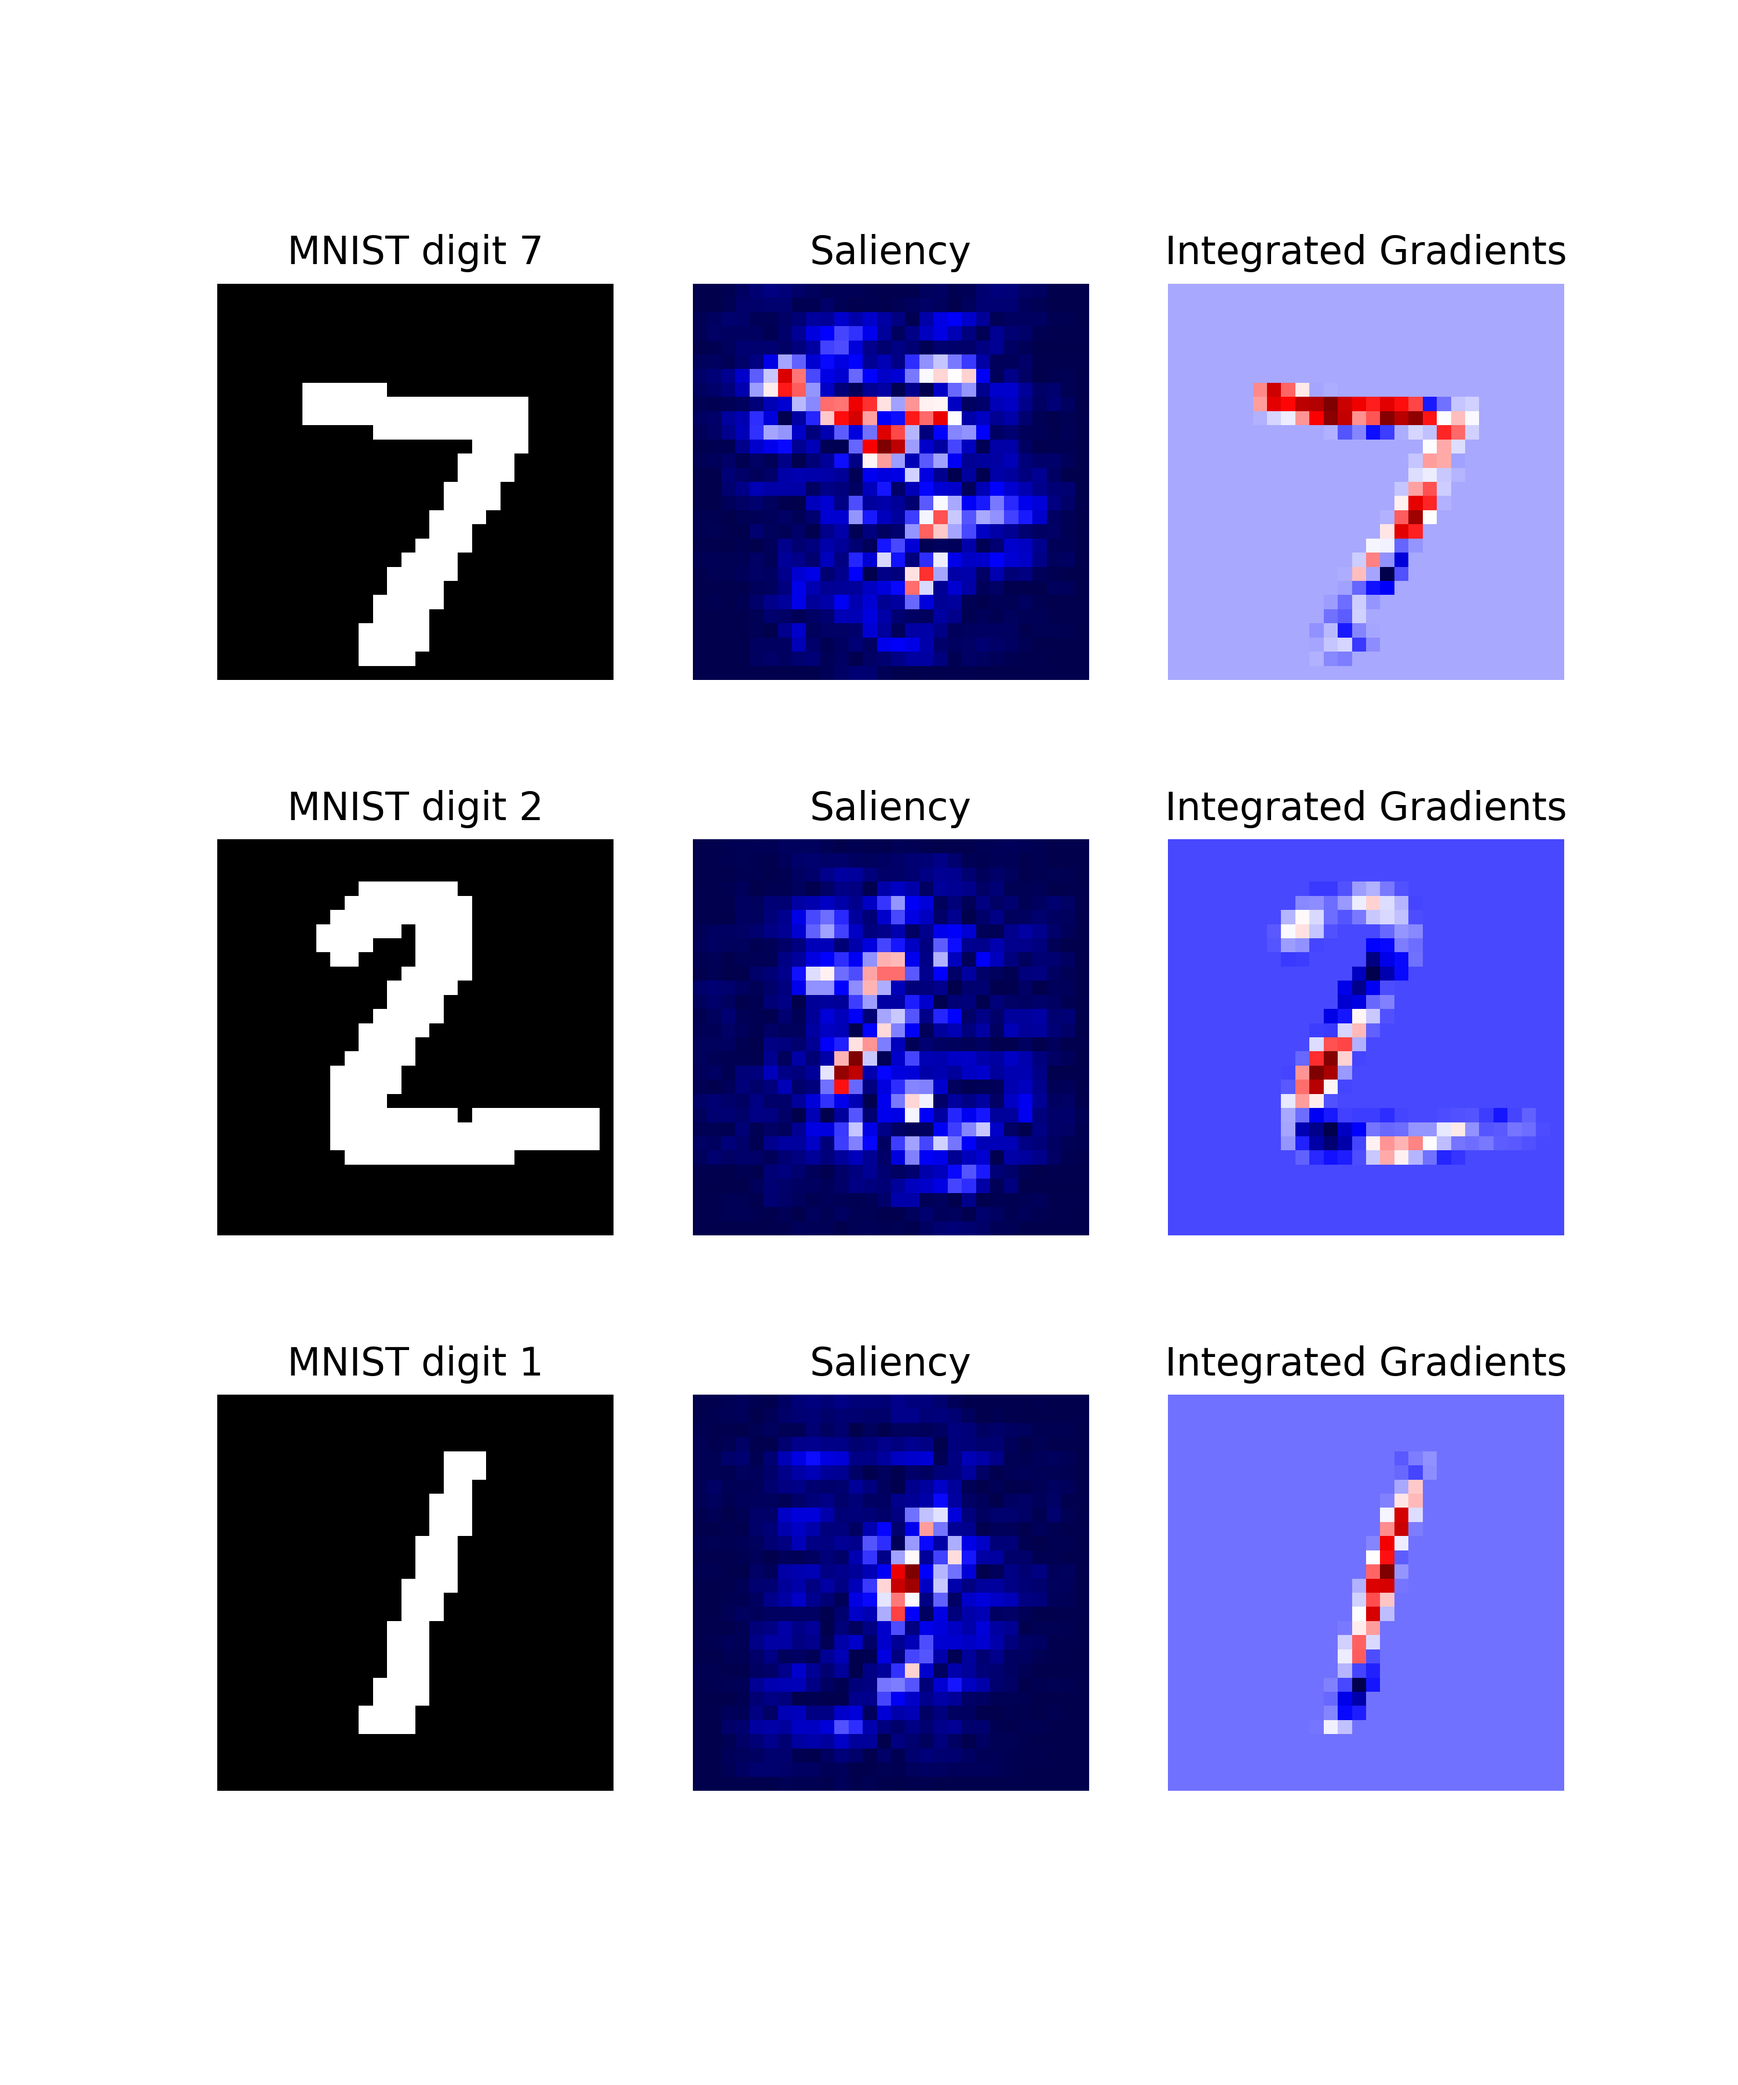
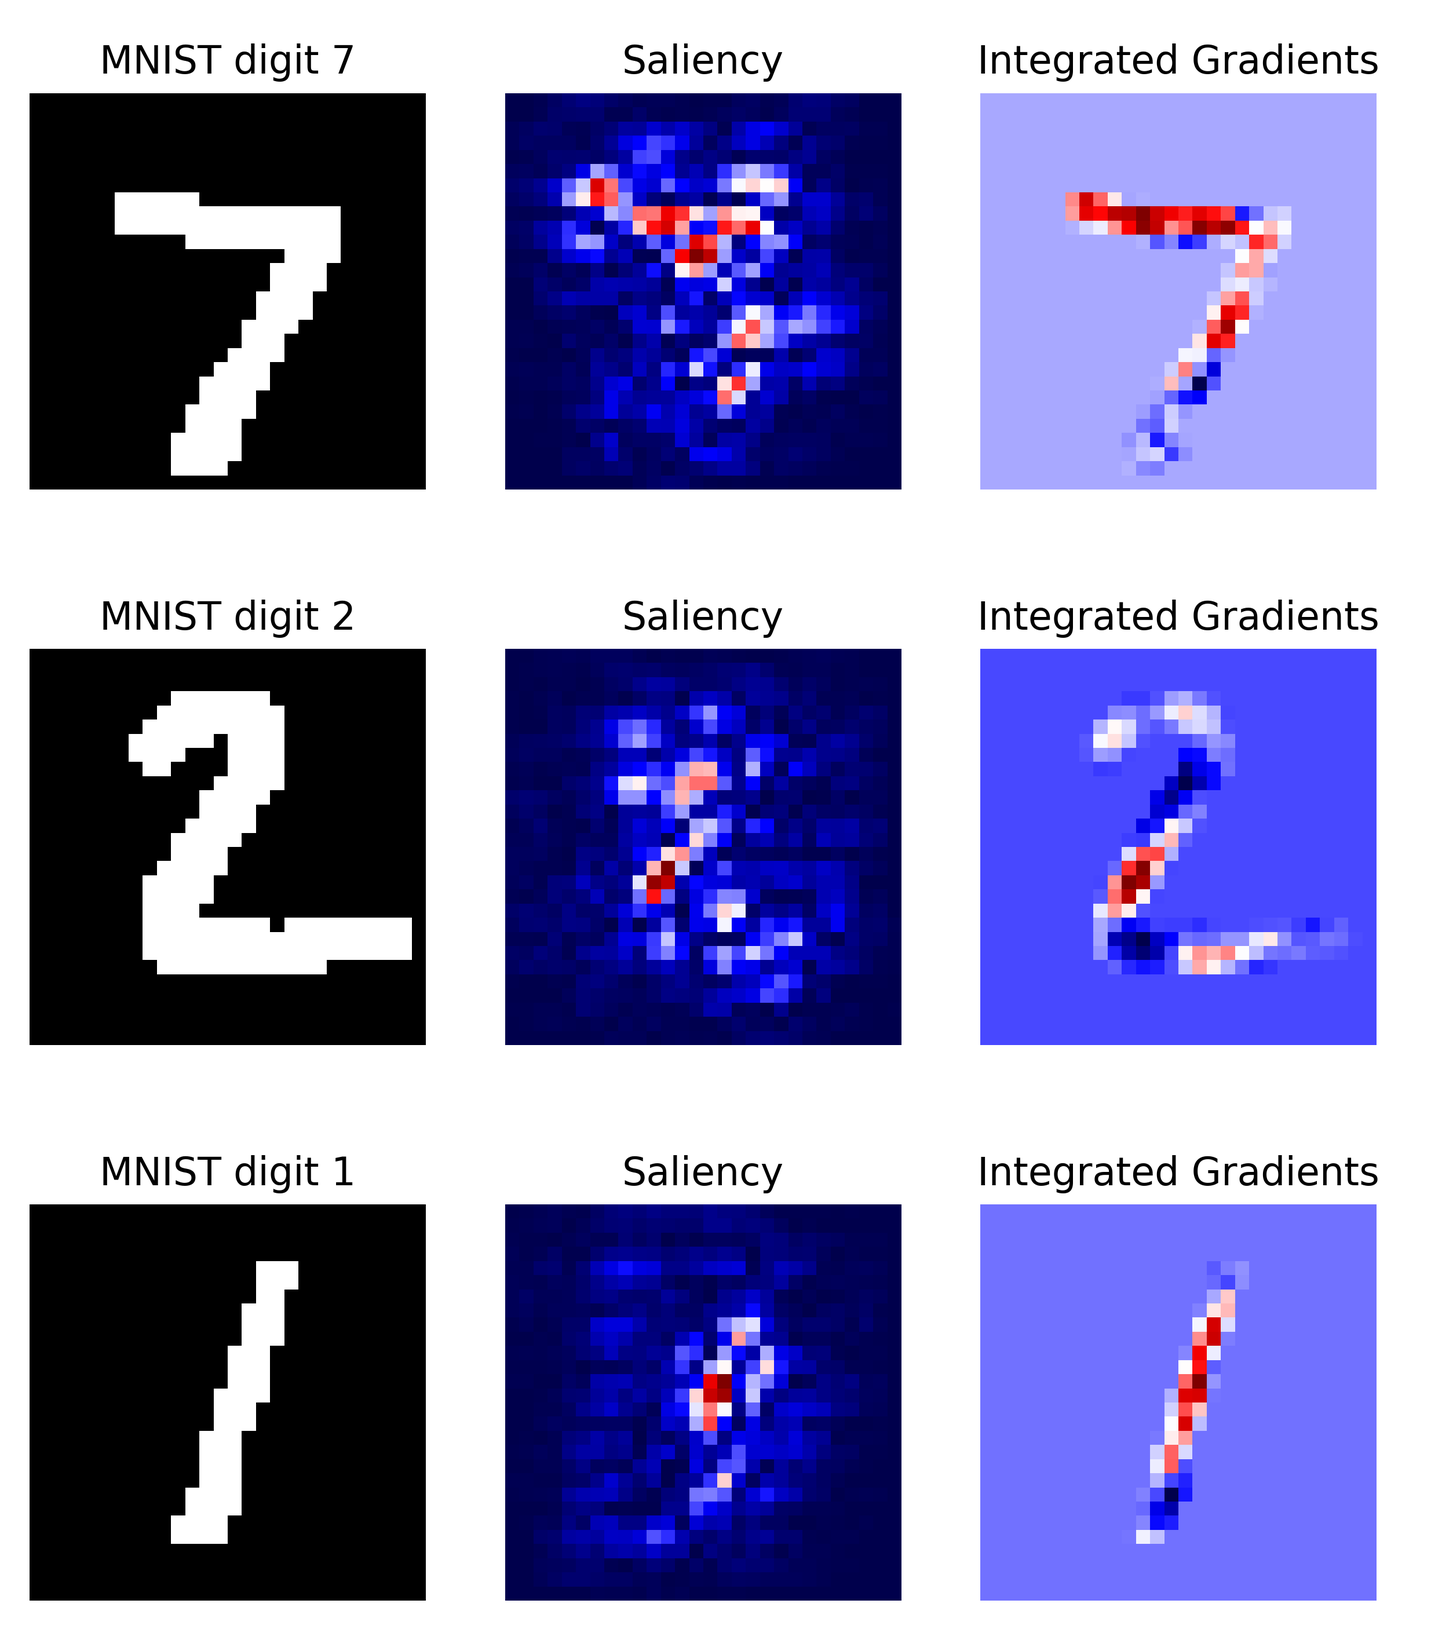
updated docs

diff --git a/README.md b/README.md
@@ -298,7 +298,7 @@ For this, you can for example rely on the built-in `quantus.explain` function to
 (please run `quantus.available_methods()` to see which ones).  Examples of how to use `quantus.explain` 
 or your own customised explanation function are included in the next section.
 
-<img src="tutorials/assets/mnist_example.png" alt="drawing"  class="center" width="700"/>
+<img src="tutorials/assets/mnist_example.png" alt="drawing"  class="center" width="600"/>
 
 As seen in the above image, the qualitative aspects of explanations 
 may look fairly uninterpretable --- since we lack ground truth of what the explanations
